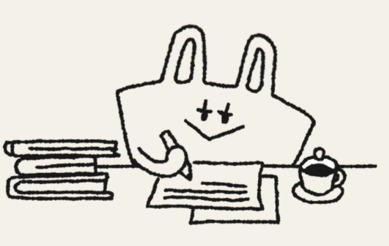
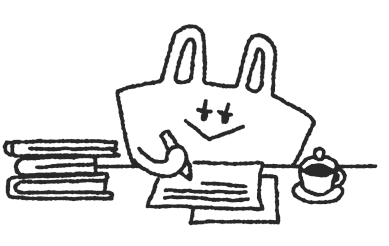
Refine home title and illustration

diff --git a/docs/styles.css b/docs/styles.css
@@ -168,10 +168,10 @@ button:disabled {
   max-width: 340px;
   margin: 0;
   color: var(--ink);
-  font-size: clamp(42px, 12vw, 64px);
+  font-size: clamp(28px, 7.6vw, 34px);
   font-weight: 950;
-  line-height: 0.96;
-  overflow-wrap: anywhere;
+  line-height: 1.04;
+  white-space: nowrap;
 }
 
 .cover-title h1::after {
@@ -185,7 +185,7 @@ button:disabled {
   display: block;
   width: min(100%, 318px);
   max-height: 176px;
-  margin: clamp(44px, 8vh, 76px) auto clamp(24px, 5vh, 42px);
+  margin: clamp(52px, 9vh, 84px) auto clamp(28px, 5vh, 44px);
   object-fit: contain;
 }
 

diff --git a/docs/index.html b/docs/index.html
@@ -4,12 +4,12 @@
     <meta charset="utf-8">
     <meta name="viewport" content="width=device-width, initial-scale=1">
     <title>Multilingual-Bible</title>
-    <link rel="stylesheet" href="./styles.css?v=20260522-title">
+    <link rel="stylesheet" href="./styles.css?v=20260522-title-fit">
   </head>
   <body>
     <div id="app" class="app-shell">
       <main id="view" class="view" aria-live="polite"></main>
     </div>
-    <script src="./app.js?v=20260522-title" defer></script>
+    <script src="./app.js?v=20260522-title-fit" defer></script>
   </body>
 </html>

diff --git a/docs/app.js b/docs/app.js
@@ -184,7 +184,7 @@ function renderHome() {
         </div>
         <div class="cover-title">
           <span>Multilingual-Bible</span>
-          <h1>Multilingual-<br>Bible</h1>
+          <h1>Multilingual-Bible</h1>
         </div>
         <img class="home-illustration" src="./assets/home-illustration.png" alt="" loading="eager">
         <div class="home-actions">